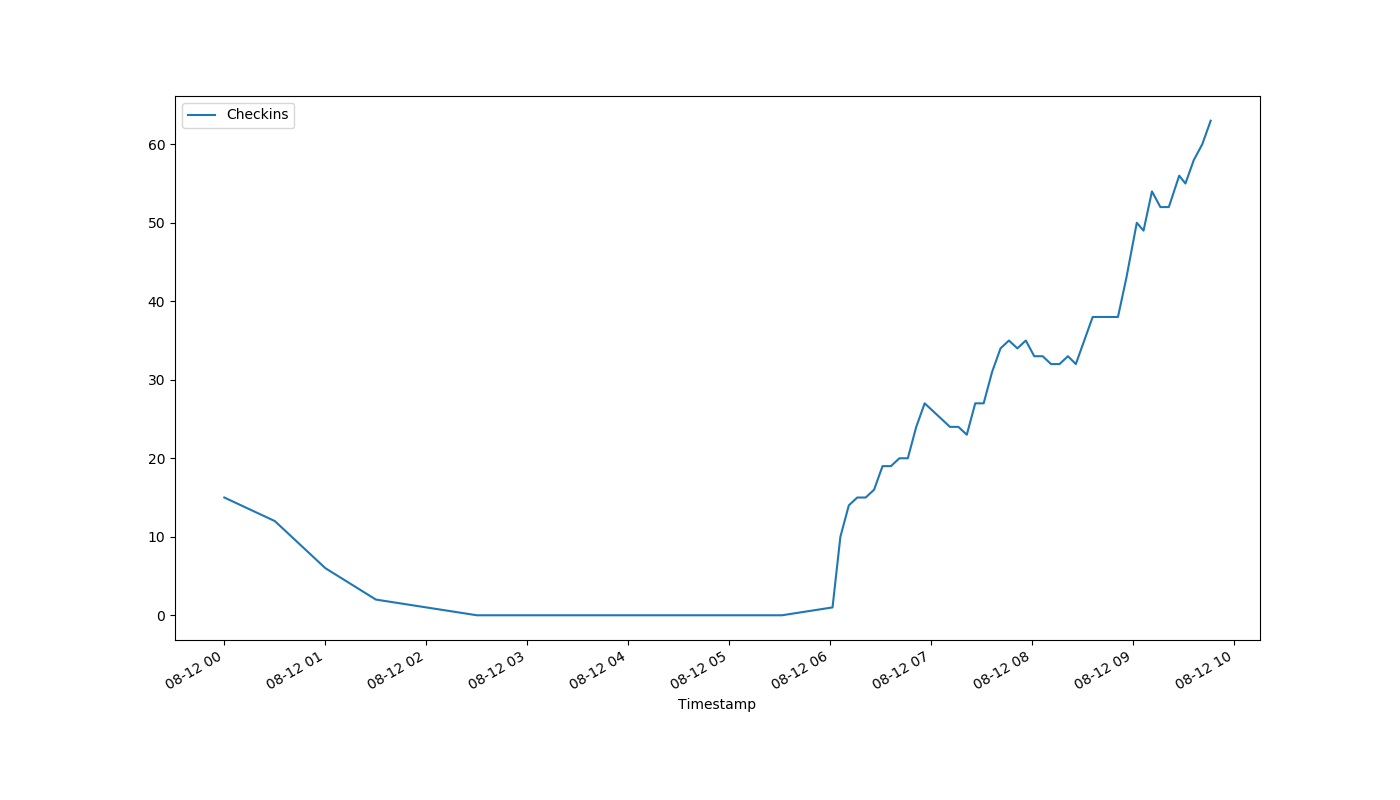
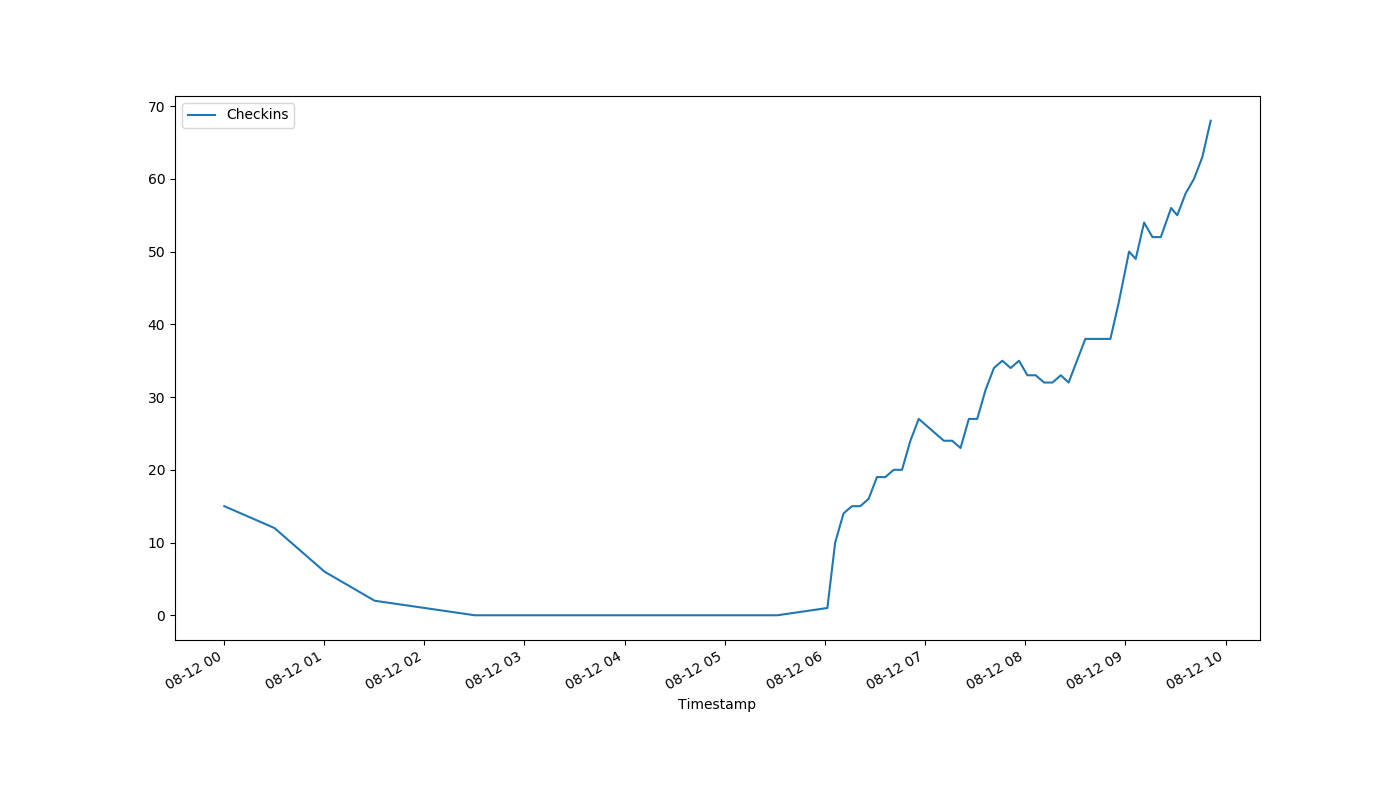
auto-Aug-12-09:51:50

diff --git a/index.html b/index.html
@@ -1,1 +1,1 @@
-<!DOCTYPE html><html><head><meta http-equiv="refresh" content="30"><link rel='stylesheet' href='holmcurrent.css'></head><body><p id='count'>63</p><div id='graph-wrap'><img id='graph' src='holmgraph-Aug-12.png'></div><p id='updated'>Last updated 09:46:19 / 09:46:06</p></body></html>
+<!DOCTYPE html><html><head><meta http-equiv="refresh" content="30"><link rel='stylesheet' href='holmcurrent.css'></head><body><p id='count'>68</p><div id='graph-wrap'><img id='graph' src='holmgraph-Aug-12.png'></div><p id='updated'>Last updated 09:51:19 / 09:51:06</p></body></html>
